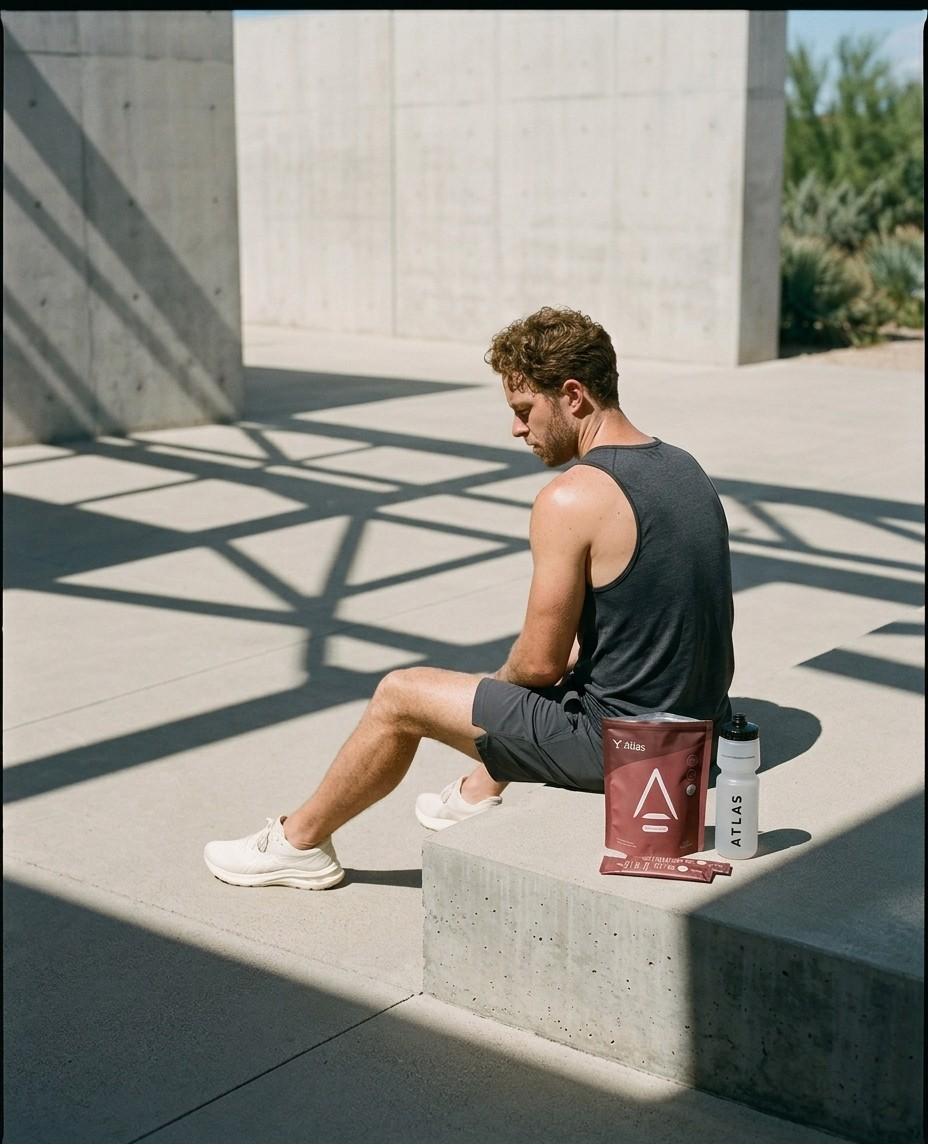
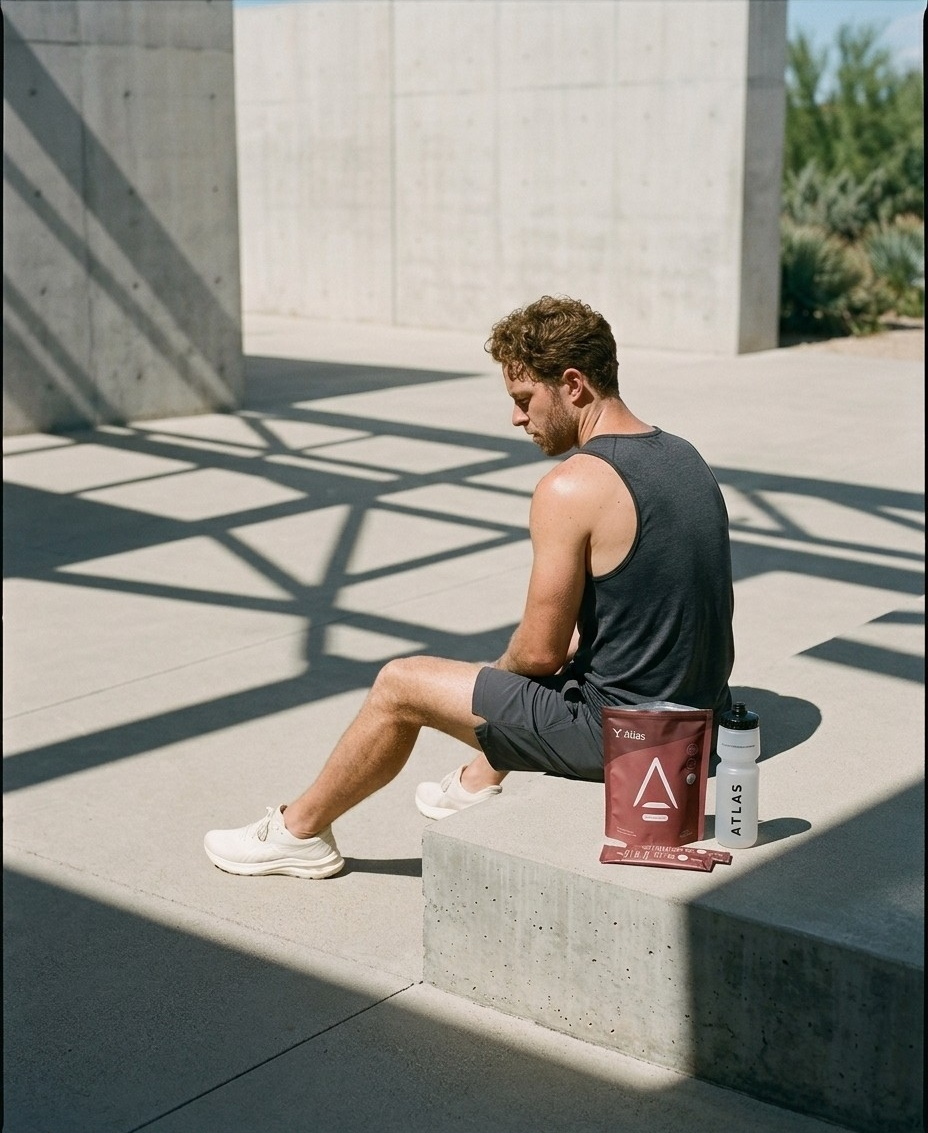
Add studio shot as primary bottle image, fix courtyard crop, upgrade combo photo (#147)
- Adds a clean white-background studio shot as the new primary/lead
  gallery image (also now the OpenGraph and JSON-LD share image).
- Removes a black line artifact from the top of the courtyard photo.
- Replaces the low-resolution padel-combo photo (previously cropped
  from a page screenshot) with a proper high-resolution source photo,
  re-cropped to the site's 4:5 ratio.

Claude-Session: https://claude.ai/code/session_01P2MNa3iEDQTzhGqqMWm9Uf

diff --git a/app/products/bottle/page.tsx b/app/products/bottle/page.tsx
@@ -13,7 +13,7 @@ export const metadata: Metadata = {
     description:
       "Lightweight, easy-squeeze 26 oz water bottle with Purist inner-wall technology and a leak-free MoFlo 2.0 cap.",
     siteName: "Atlas Hydration",
-    images: ["https://atlas-hydration.com/images/products/bottle/atlas-bottle-padel.jpg"],
+    images: ["https://atlas-hydration.com/images/products/bottle/atlas-bottle-studio.jpg"],
   },
 };
 
@@ -23,7 +23,7 @@ const productJsonLd = {
   name: "Atlas Performance Water Bottle — 26 oz",
   description:
     "Lightweight, easy-squeeze 26 oz water bottle with Purist inner-wall technology and a leak-free MoFlo 2.0 cap. BPA-free, made in the USA.",
-  image: "https://atlas-hydration.com/images/products/bottle/atlas-bottle-padel.jpg",
+  image: "https://atlas-hydration.com/images/products/bottle/atlas-bottle-studio.jpg",
   brand: { "@type": "Brand", name: "Atlas Hydration" },
   offers: {
     "@type": "Offer",

diff --git a/app/data/products.ts b/app/data/products.ts
@@ -87,6 +87,7 @@ export const PRODUCTS: Record<string, Product> = {
     color: "#1d1d1f",
     colorRgb: "29, 29, 31",
     images: [
+      "/images/products/bottle/atlas-bottle-studio.jpg",
       "/images/products/bottle/atlas-bottle-padel.jpg",
       "/images/products/bottle/atlas-bottle-pool.jpg",
       "/images/products/bottle/atlas-bottle-padel-combo.jpg",
